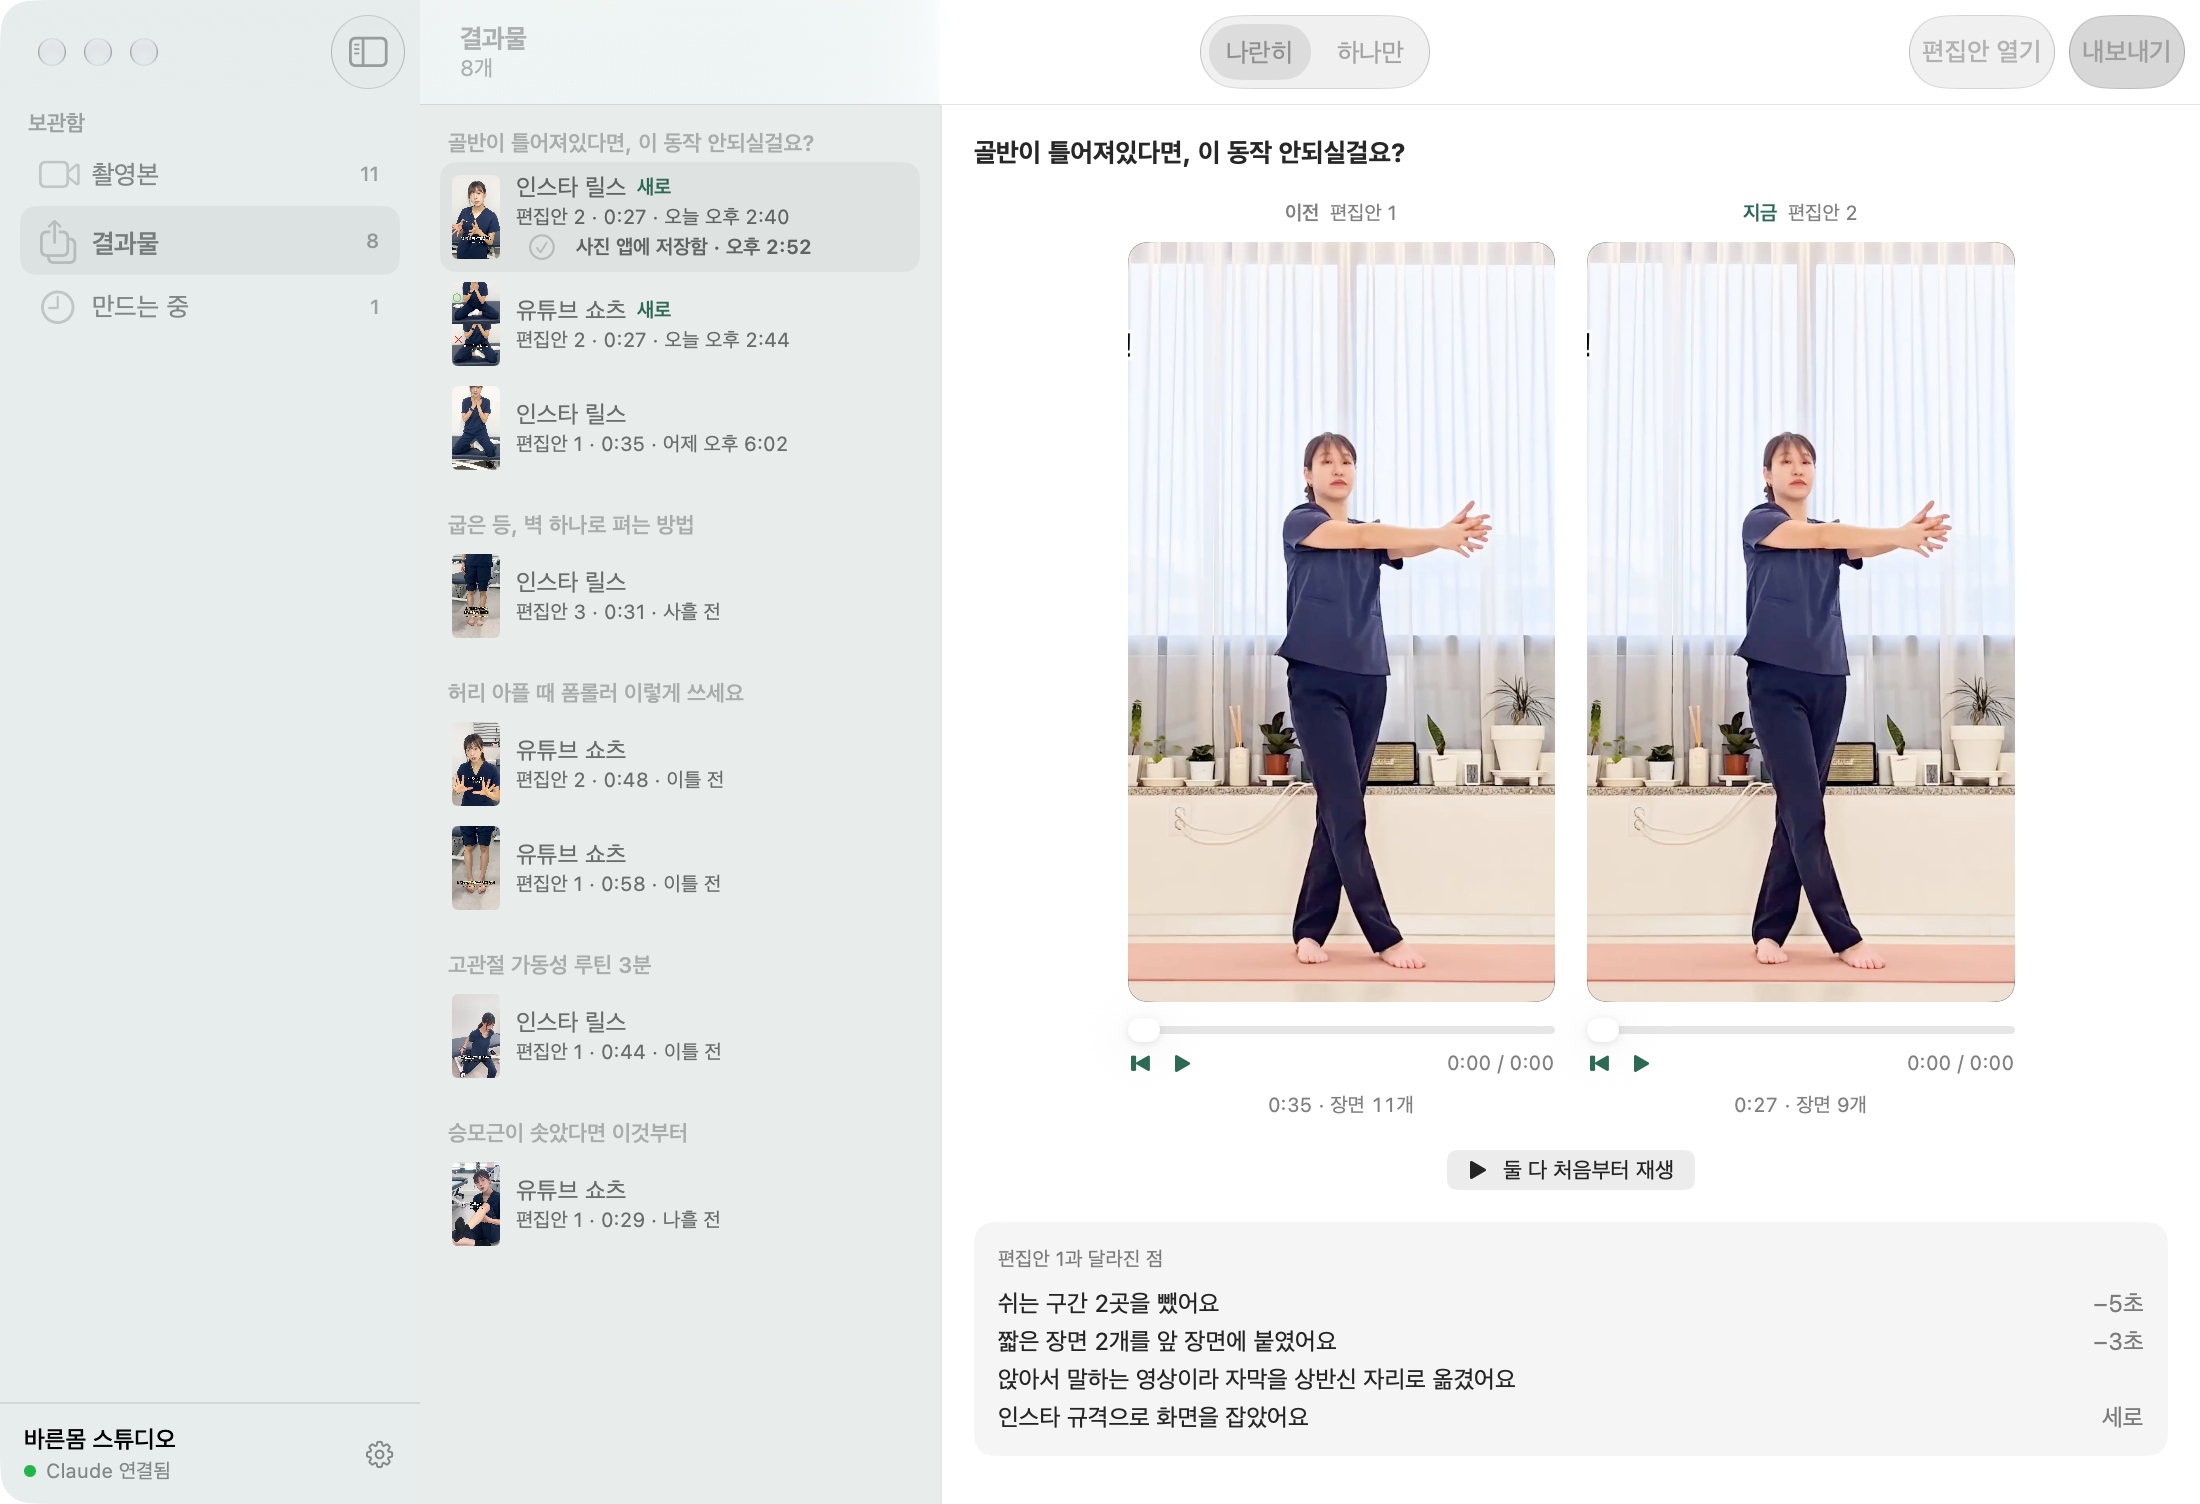
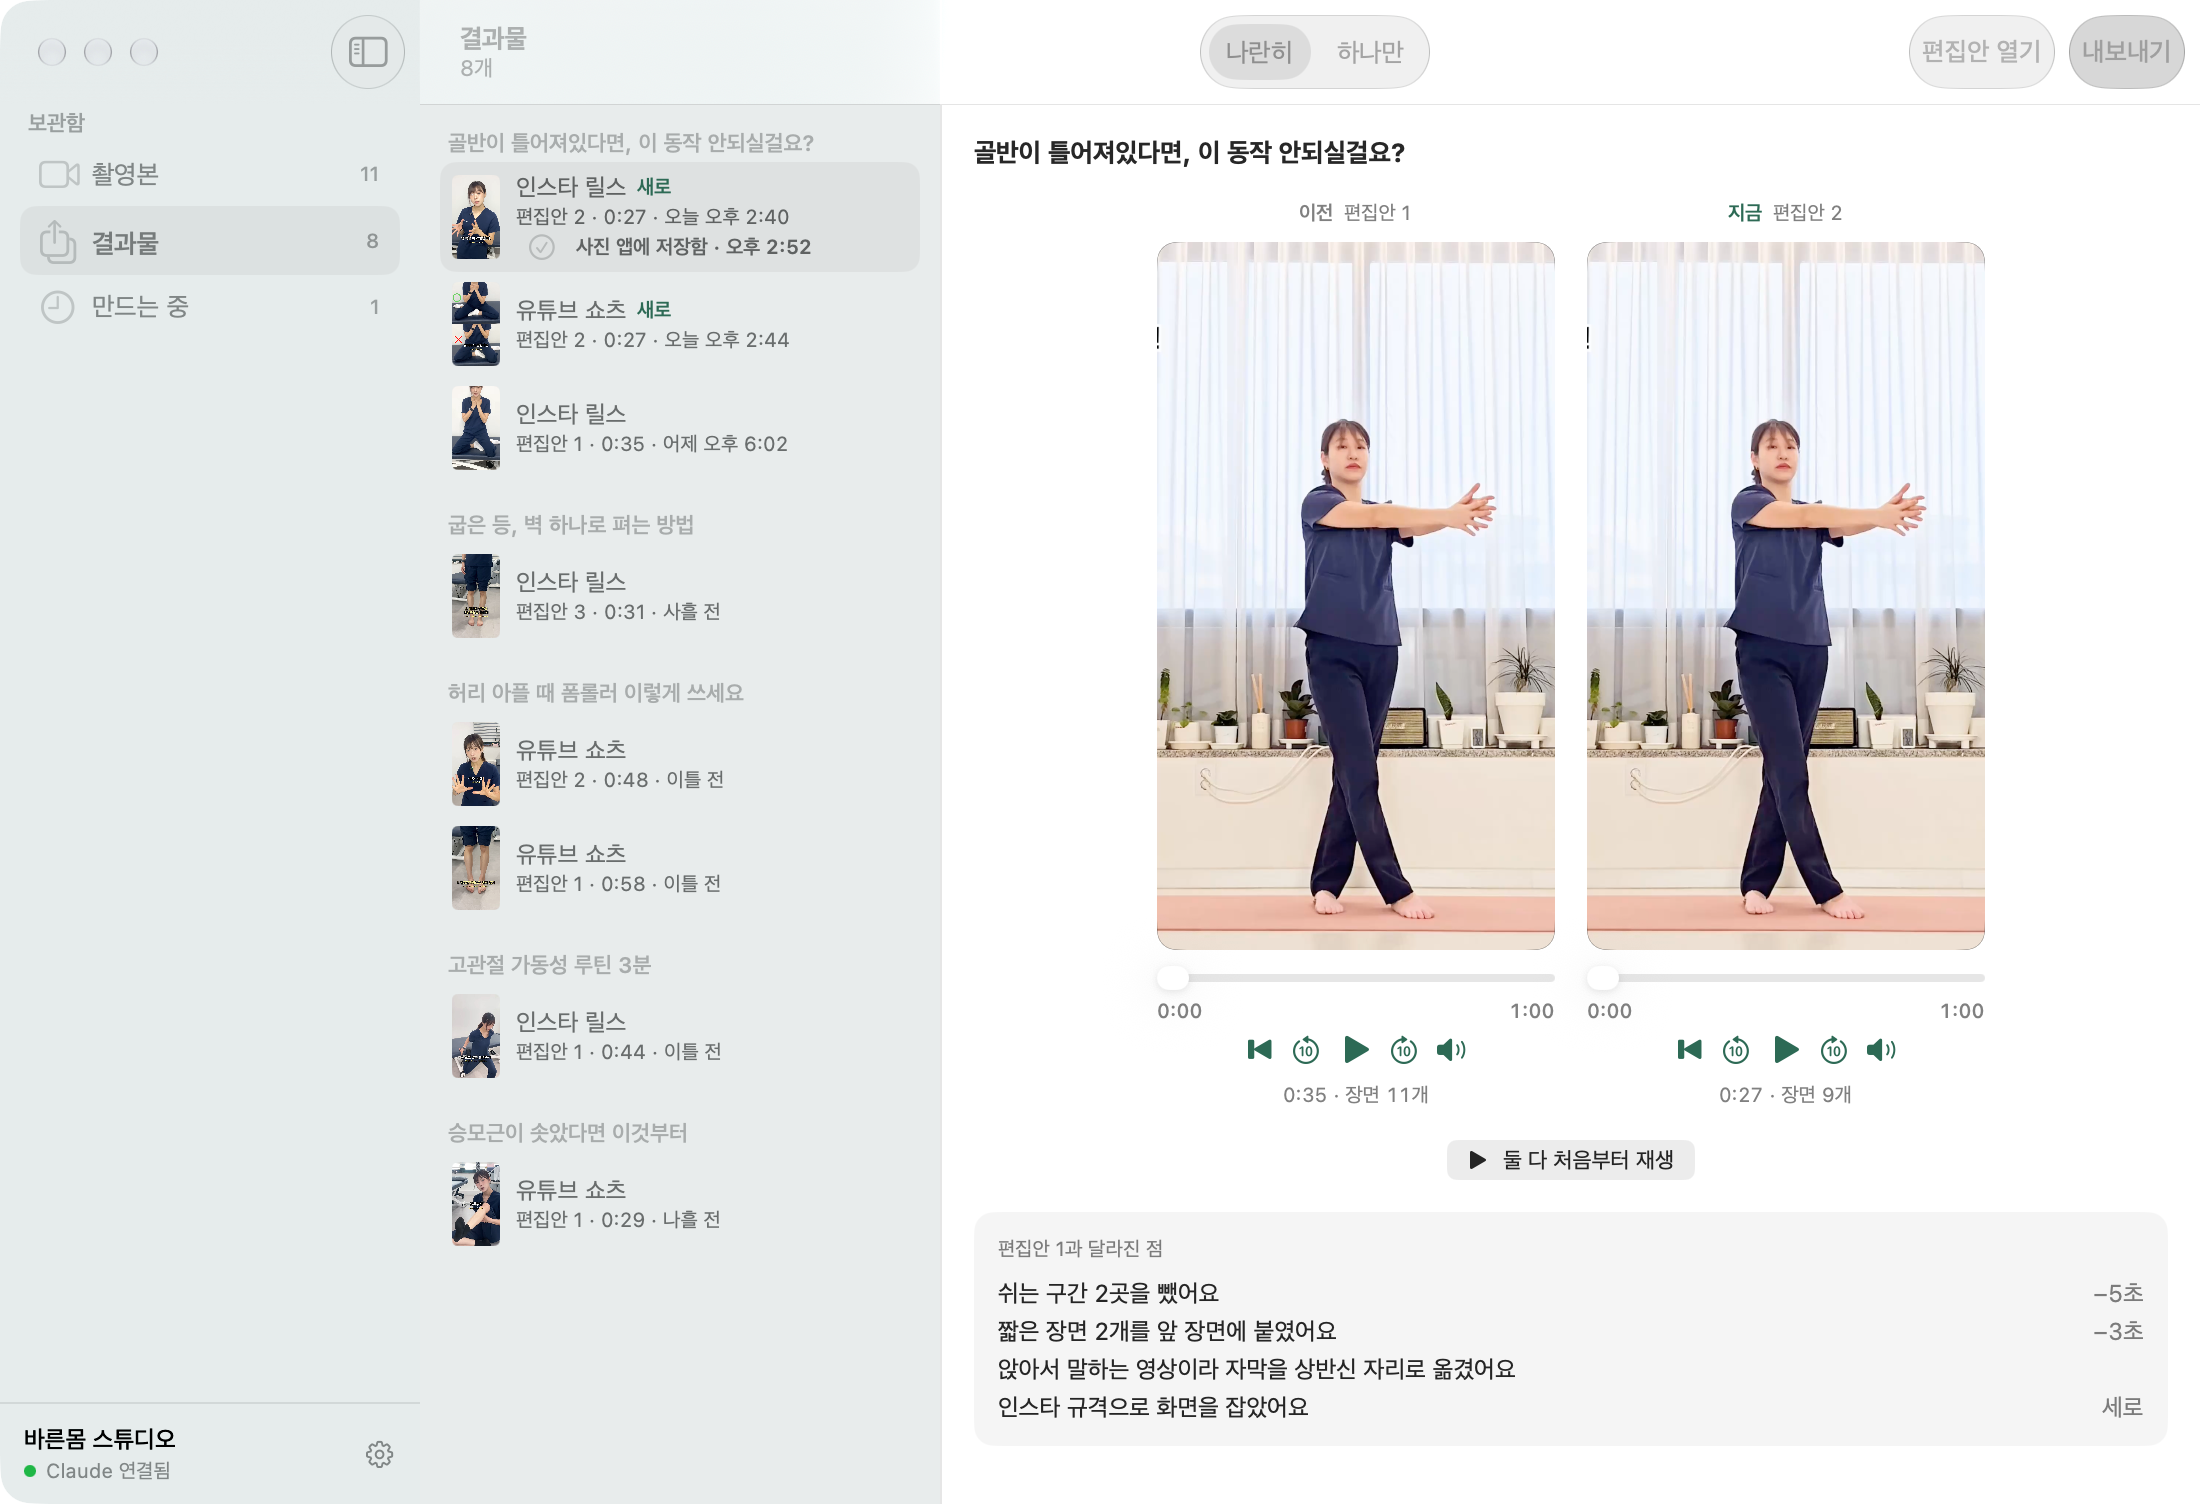
app: 안 보이는 영상 소리가 계속 나던 것 · 재생 막대 버튼 더하기
- 다른 판 · 다른 결과물로 옮기거나 화면을 떠나면 재생기를 멈춘다 (옛 재생기가 관찰 클로저에 붙잡혀 계속 돌았다)
- 막대: 처음으로 · 10초 뒤로 · 재생/멈춤 · 10초 앞으로 · 소리 끄기. 시간은 막대 밑 양 끝
- 스크린샷 docs/design/screens/plan-video · results-video 갱신

diff --git a/Madi/UI/Common/MediaPlayerView.swift b/Madi/UI/Common/MediaPlayerView.swift
@@ -18,6 +18,11 @@ final class MediaPlayers: ObservableObject {
         return p
     }
 
+    /// 전부 멈춘다 — 다른 결과물로 옮기거나 화면을 떠날 때. 안 멈추면 안 보이는 영상 소리가 계속 난다.
+    func pauseAll() {
+        for p in players.values { p.pause() }
+    }
+
     /// 전부 처음부터 같이 튼다 (결과물 "둘 다 처음부터 재생").
     func playAllFromStart() {
         for p in players.values {
@@ -57,16 +62,22 @@ final class PlayerClock: ObservableObject {
     private var observer: Any?
     private var bag: Set<AnyCancellable> = []
 
+    @Published var isMuted = false
+
     func attach(_ player: AVPlayer) {
         guard self.player !== player else { return }
+        detach()
         self.player = player
+        isMuted = player.isMuted
+        position = 0
+        total = 0
         observer = player.addPeriodicTimeObserver(
             forInterval: CMTime(value: 1, timescale: 10), queue: .main
-        ) { [weak self] time in
+        ) { [weak self, weak player] time in
             MainActor.assumeIsolated {
                 guard let self else { return }
                 self.position = time.seconds.isFinite ? time.seconds : 0
-                if let d = player.currentItem?.duration.seconds, d.isFinite { self.total = d }
+                if let d = player?.currentItem?.duration.seconds, d.isFinite { self.total = d }
             }
         }
         // 길이는 재생 전에도 보여 준다 (0:00 / 0:00 으로 두지 않는다).
@@ -80,6 +91,27 @@ final class PlayerClock: ObservableObject {
             .receive(on: RunLoop.main)
             .sink { [weak self] status in self?.isPlaying = status != .paused }
             .store(in: &bag)
+    }
+
+    /// 재생기를 놓는다 — 멈추고 관찰을 뗀다. 화면이 사라질 때도 부른다.
+    func detach() {
+        guard let player else { return }
+        player.pause()
+        if let observer { player.removeTimeObserver(observer) }
+        observer = nil
+        bag.removeAll()
+        self.player = nil
+    }
+
+    func skip(_ delta: Double) {
+        let upper = total > 0 ? total : position + delta
+        seek(min(max(0, position + delta), upper))
+    }
+
+    func toggleMute() {
+        guard let player else { return }
+        player.isMuted.toggle()
+        isMuted = player.isMuted
     }
 
     func seek(_ seconds: Double) {
@@ -116,27 +148,33 @@ struct PlayerTransport: View {
             .labelsHidden()
 
             HStack(spacing: Tokens.Space.inner) {
-                Button { clock.seek(0) } label: {
-                    Image(systemName: "backward.end.fill")
-                }
-                .help(Copy.Plan.Scenes.playFromHere)
+                Text(Copy.duration(clock.position))
+                Spacer(minLength: 0)
+                Text(Copy.duration(clock.total))
+            }
+            .font(.caption2)
+            .monospacedDigit()
+            .foregroundStyle(.secondary)
 
+            // 처음으로 · 10초 뒤로 · 재생/멈춤 · 10초 앞으로 · 소리. QuickTime 과 같은 버튼만 둔다.
+            HStack(spacing: Tokens.Space.inner) {
+                Button { clock.seek(0) } label: { Image(systemName: "backward.end.fill") }
+                    .help(Copy.Plan.Scenes.playFromHere)
+                Button { clock.skip(-10) } label: { Image(systemName: "gobackward.10") }
                 Button { clock.toggle() } label: {
                     Image(systemName: clock.isPlaying ? "pause.fill" : "play.fill")
-                        .frame(width: 12)
+                        .imageScale(.large)
+                        .frame(width: 18)
                 }
                 .help(Copy.Action.play)
-
-                Spacer(minLength: 0)
-
-                Text("\(Copy.duration(clock.position)) / \(Copy.duration(clock.total))")
-                    .font(.caption)
-                    .monospacedDigit()
-                    .foregroundStyle(.secondary)
-                    .lineLimit(1)
+                Button { clock.skip(10) } label: { Image(systemName: "goforward.10") }
+                Button { clock.toggleMute() } label: {
+                    Image(systemName: clock.isMuted ? "speaker.slash.fill" : "speaker.wave.2.fill")
+                        .frame(width: 16)
+                }
             }
             .buttonStyle(.borderless)
-            .imageScale(.small)
+            .frame(maxWidth: .infinity)
         }
     }
 }
@@ -167,6 +205,7 @@ struct PlanVideo: View {
             PlayerTransport(clock: clock)
         }
         .onAppear { clock.attach(player) }
+        .onDisappear { clock.detach() }
         .onReceive(NotificationCenter.default.publisher(for: .madiPlayerSeek)) { note in
             clock.seek(note.userInfo?["seconds"] as? Double ?? 0)
             player.play()
@@ -193,5 +232,7 @@ struct ResultVideo: View {
                 .frame(width: height * Tokens.Ratio.vertical)
         }
         .onAppear { clock.attach(player) }
+        .onChange(of: ObjectIdentifier(player)) { clock.attach(player) }
+        .onDisappear { clock.detach() }
     }
 }

diff --git a/Madi/UI/Results/ResultCompare.swift b/Madi/UI/Results/ResultCompare.swift
@@ -18,12 +18,15 @@ struct ResultCompare: View {
         GeometryReader { proxy in
             content(paneHeight: paneHeight(in: proxy.size))
         }
+        // 다른 결과물을 고르거나 화면을 떠나면 멈춘다 — 안 보이는 영상 소리가 나지 않게.
+        .onChange(of: detail.current.id) { players.pauseAll() }
+        .onDisappear { players.pauseAll() }
     }
 
     /// 제목 · 라벨 · 길이줄 · 재생 버튼 · 달라진 점 카드가 쓰는 높이.
     private let chrome: CGFloat = 276
     /// 결과물 영상 밑 재생 막대가 쓰는 높이.
-    private static let transportHeight: CGFloat = 44
+    private static let transportHeight: CGFloat = 70
 
     private func paneHeight(in size: CGSize) -> CGFloat {
         let columns = CGFloat(showsPrevious ? 2 : 1)

diff --git a/Madi/UI/Plan/PlanPlayer.swift b/Madi/UI/Plan/PlanPlayer.swift
@@ -24,6 +24,7 @@ struct PlanPlayer: View {
         if let url {
             // 영상 + 같은 꼴의 재생 막대 (MediaPlayerView.swift)
             PlanVideo(url: url)
+                .id(url)   // 다른 판으로 바뀌면 옛 재생기를 멈추고 새로 만든다
         } else {
             VStack(spacing: Tokens.Space.inner) {
                 ThumbnailView(thumbnail: thumbnail, cornerRadius: Tokens.Radius.card)

diff --git a/docs/design/viewdata-map.md b/docs/design/viewdata-map.md
@@ -308,6 +308,8 @@ case .openSettings
 - 앱을 **라이트로 고정**했다 (`MadiApp.init`, §16) — 다크 모드 Mac 에서 사이드바 · 배경이 검게 나와 화면이 깨졌다.
   스크린샷 도구가 이미 하던 것을 앱에도 했다. 강조색 `AccentColor` 를 `Tokens.Palette.accent` 로 넣었다
   (사이드바 고른 칸은 사용자가 시스템 설정에서 고른 강조색을 따른다 — macOS 규칙)
+- (세 번째) 막대 버튼: 처음으로 · 10초 뒤로 · 재생/멈춤 · 10초 앞으로 · 소리 끄기, 시간은 막대 밑 양 끝.
+  다른 판 · 다른 결과물로 옮기거나 화면을 떠나면 재생기를 멈춘다 (안 보이는 영상 소리가 계속 나던 것)
 - 스크린샷 `plan-video` · `results-video` 를 더했다. `MADI_SHOTS_VIDEO=<mp4>` 로 실제 영상을 넣어 뜬다
 
 제안 (디자인이 정한다):
